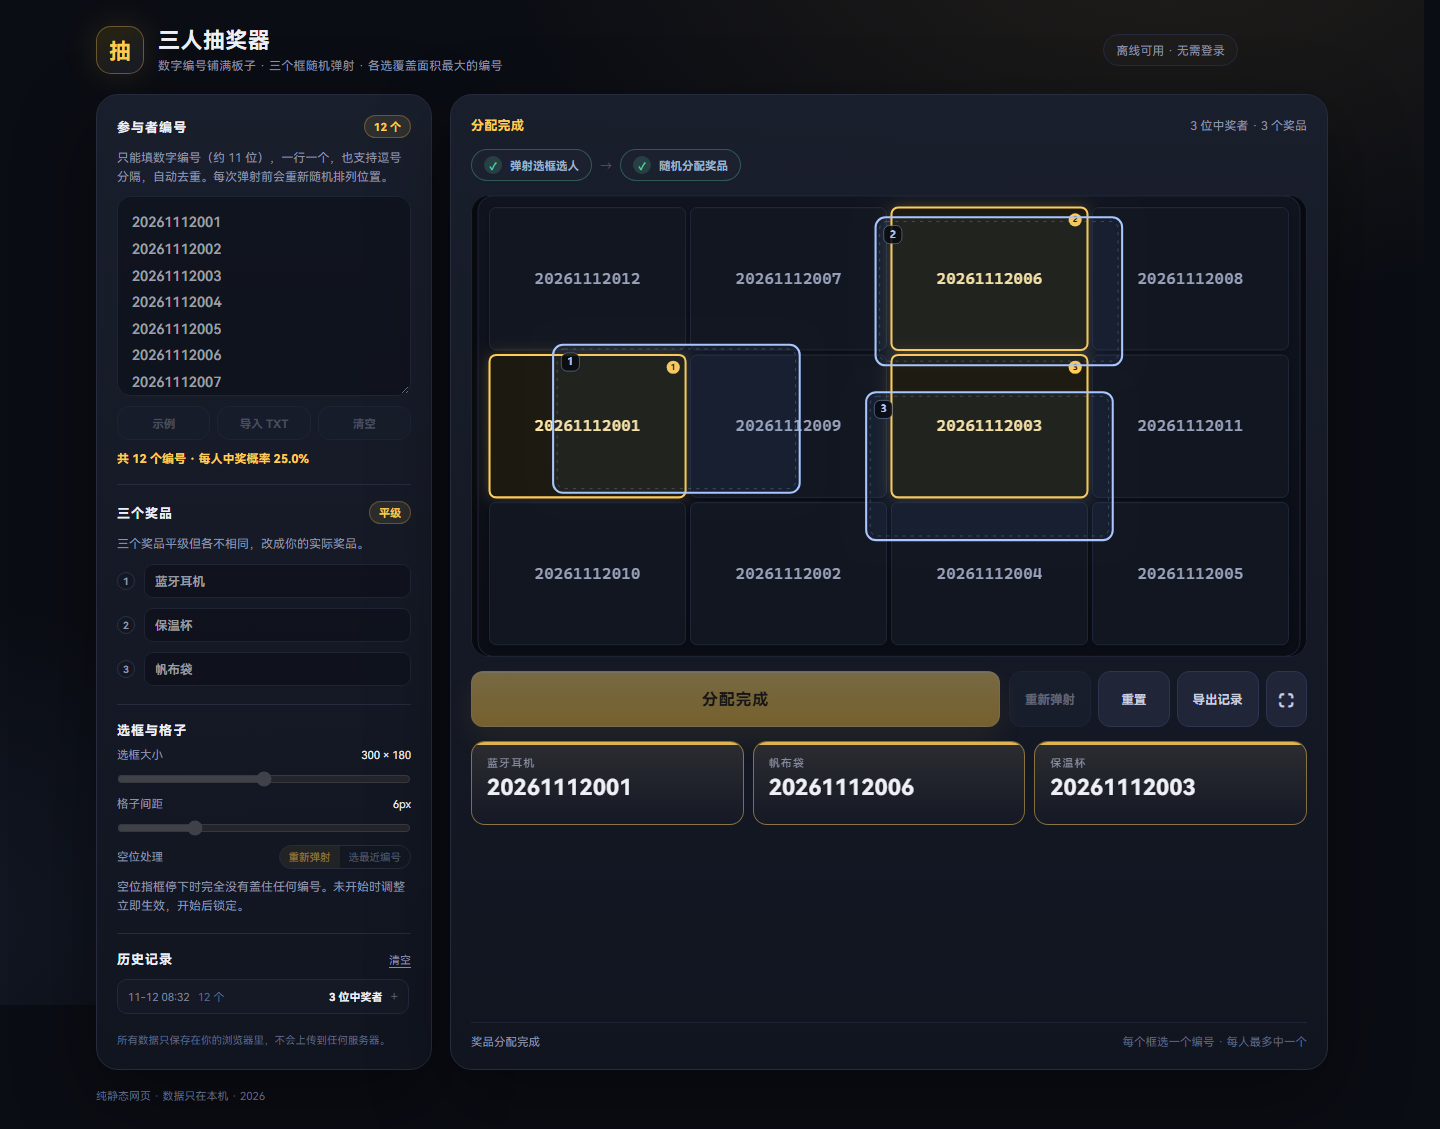
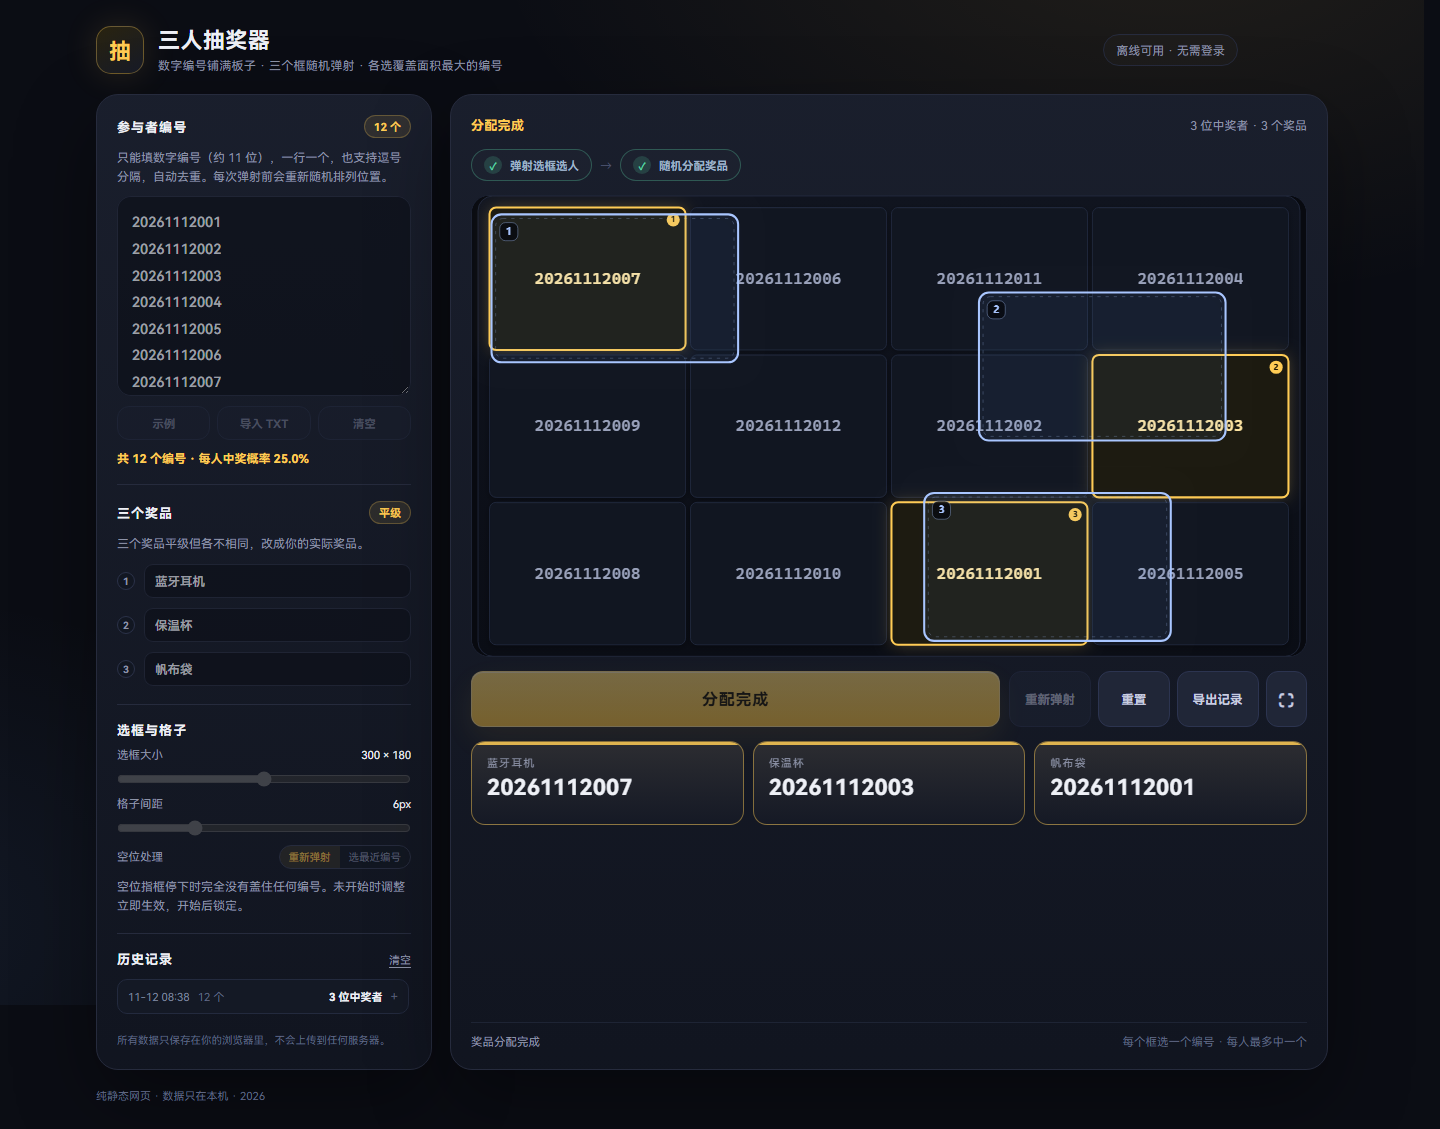
tune: mix normal and close secret paths

diff --git a/assets/board.js b/assets/board.js
@@ -252,7 +252,9 @@
   function coverageInfo(frames, tiles, targetIndex) {
     var targetMax = false;
     var allCover = true;
-    frames.forEach(function (frame) {
+    var targetRatio = 0;
+    var targetFrame = -1;
+    frames.forEach(function (frame, frameIndex) {
       var maxArea = 0;
       var targetArea = 0;
       tiles.forEach(function (tile, index) {
@@ -263,9 +265,21 @@
         if (index === targetIndex) targetArea = area;
       });
       if (maxArea <= 1) allCover = false;
-      if (targetArea >= maxArea - 1) targetMax = true;
+      if (targetArea >= maxArea - 1 && maxArea > 1) {
+        targetMax = true;
+        var ratio = targetArea / (frame.w * frame.h);
+        if (ratio > targetRatio) {
+          targetRatio = ratio;
+          targetFrame = frameIndex;
+        }
+      }
     });
-    return { targetMax: targetMax, allCover: allCover };
+    return {
+      targetMax: targetMax,
+      allCover: allCover,
+      targetRatio: targetRatio,
+      targetFrame: targetFrame
+    };
   }
 
   function simulateCandidate(startFrames, params, tiles, targetIndex) {
@@ -294,6 +308,8 @@
       frames: frames,
       targetMax: info.targetMax,
       allCover: info.allCover,
+      targetRatio: info.targetRatio,
+      targetFrame: info.targetFrame,
       pathRatio: stats.distance / Math.max(displacement, 1),
       steps: steps + 1,
       stats: stats
@@ -604,16 +620,32 @@
         accepted.push({
           params: params,
           stats: sim.stats,
-          pathRatio: sim.pathRatio
+          pathRatio: sim.pathRatio,
+          targetRatio: sim.targetRatio
         });
         if (accepted.length >= 16) break;
       }
 
       if (accepted.length) {
-        var chosen = accepted[Math.floor(Math.random() * accepted.length)];
+        var normal = accepted.filter(function (item) {
+          return item.targetRatio >= 0.5;
+        });
+        var close = accepted.filter(function (item) {
+          return item.targetRatio < 0.5;
+        });
+        var pool = accepted;
+        if (normal.length && close.length) {
+          pool = Math.random() < 0.7 ? normal : close;
+        } else if (normal.length) {
+          pool = normal;
+        } else if (close.length) {
+          pool = close;
+        }
+        var chosen = pool[Math.floor(Math.random() * pool.length)];
         var plan = recordTrajectory(startFrames, chosen.params, this.tiles);
         plan.stats = chosen.stats;
         plan.pathRatio = chosen.pathRatio;
+        plan.targetRatio = chosen.targetRatio;
         plan.candidates = totalCandidates;
         return plan;
       }

diff --git a/README.md b/README.md
@@ -51,7 +51,7 @@
   - 保存后，之后**每次正常弹射**都会让该编号成为三位中奖者之一，不需要重新填写；另外两位按另外两个框的正常结果产生；
   - **不改地板、不换编号**：每次弹射前先在后台模拟多条弹射路径，挑一条会撞墙、撞框几次且最后目标格成为某个框最大覆盖格的路径，再把这条轨迹回放出来；
   - 回放路径不是直线，能看到多次墙壁和选框之间的碰撞；最终覆盖关系是真实计算出来的，不会出现“框里更大的格子没被选中”；
-  - 只有最终覆盖本身比较接近时，才会自然出现“差一点”的效果；
+  - 不追求每把都“差一点”：大部分是正常压中，只有偶尔才会挑到险胜的路径；
   - 设置保存在浏览器本地，刷新后仍然生效，直到点「清除作弊」；
   - 清除只影响后续弹射，已经出来的当前结果不会变。
 
